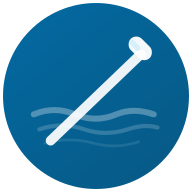
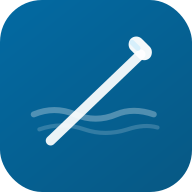
feat: PWA complet - manifest enrichi, SW v6 robuste, splash screens iOS, offline page, icônes toutes tailles

Changed region(s): [[0.0, 0.0, 1.0, 1.0], [0.3125, 0.7188, 0.4688, 0.75]]

diff --git a/public/sw.js b/public/sw.js
@@ -1,54 +1,107 @@
-// Version à incrémenter à chaque déploiement pour forcer le remplacement
-const SW_VERSION = 'v5';
-const CACHE = `aviron-coach-${SW_VERSION}`;
+const SW_VERSION = 'v6';
+const CACHE_STATIC = `aviron-static-${SW_VERSION}`;
+const CACHE_DYNAMIC = `aviron-dynamic-${SW_VERSION}`;
 
-// À l'installation : mettre en cache uniquement les fichiers statiques stables
+const STATIC_ASSETS = [
+  '/',
+  '/index.html',
+  '/manifest.json',
+  '/icon-192.png',
+  '/icon-512.png',
+  '/icon-180.png',
+  '/offline.html',
+];
+
+// ── Installation ──
 self.addEventListener('install', e => {
   e.waitUntil(
-    caches.open(CACHE)
-      .then(c => c.addAll(['/index.html', '/manifest.json', '/icon-192.png', '/icon-512.png']))
-      .then(() => self.skipWaiting()) // Prendre le contrôle immédiatement
+    caches.open(CACHE_STATIC)
+      .then(c => c.addAll(STATIC_ASSETS))
+      .then(() => self.skipWaiting())
   );
 });
 
-// À l'activation : supprimer TOUS les anciens caches sans exception
+// ── Activation : vider les anciens caches ──
 self.addEventListener('activate', e => {
   e.waitUntil(
     caches.keys()
       .then(keys => Promise.all(
-        keys.filter(k => k !== CACHE).map(k => {
-          console.log('[SW] Suppression ancien cache:', k);
-          return caches.delete(k);
-        })
+        keys
+          .filter(k => k !== CACHE_STATIC && k !== CACHE_DYNAMIC)
+          .map(k => caches.delete(k))
       ))
-      .then(() => self.clients.claim()) // Prendre le contrôle des onglets ouverts
+      .then(() => self.clients.claim())
   );
 });
 
+// ── Fetch : stratégie hybride ──
 self.addEventListener('fetch', e => {
-  const url = new URL(e.request.url);
+  const { request } = e;
+  const url = new URL(request.url);
 
-  // Supabase : toujours réseau direct, jamais de cache
-  if (url.hostname.includes('supabase.co')) return;
-
-  // Assets Vite (/assets/*.js, /assets/*.css) : réseau direct, jamais de cache
-  // Ces fichiers ont des hashes dans leur nom, pas besoin de les cacher
-  if (url.pathname.startsWith('/assets/')) {
-    e.respondWith(fetch(e.request));
+  // 1. Supabase → toujours réseau direct (jamais de cache)
+  if (url.hostname.includes('supabase.co') || url.hostname.includes('vercel.app') && url.pathname.startsWith('/api/')) {
     return;
   }
 
-  // Fichiers statiques stables (icônes, manifest, HTML) : cache-first
+  // 2. Assets Vite (hash dans le nom) → réseau direct, puis cache
+  if (url.pathname.startsWith('/assets/')) {
+    e.respondWith(
+      caches.open(CACHE_DYNAMIC).then(cache =>
+        cache.match(request).then(cached => {
+          if (cached) return cached;
+          return fetch(request).then(res => {
+            if (res.ok) cache.put(request, res.clone());
+            return res;
+          });
+        })
+      )
+    );
+    return;
+  }
+
+  // 3. Navigation (HTML) → network-first, fallback offline
+  if (request.mode === 'navigate') {
+    e.respondWith(
+      fetch(request)
+        .catch(() => caches.match('/offline.html') || caches.match('/index.html'))
+    );
+    return;
+  }
+
+  // 4. Reste → cache-first
   e.respondWith(
-    caches.match(e.request).then(cached => {
+    caches.match(request).then(cached => {
       if (cached) return cached;
-      return fetch(e.request).then(res => {
-        if (res.ok && res.status === 200) {
+      return fetch(request).then(res => {
+        if (res.ok) {
           const clone = res.clone();
-          caches.open(CACHE).then(c => c.put(e.request, clone));
+          caches.open(CACHE_DYNAMIC).then(c => c.put(request, clone));
         }
         return res;
       }).catch(() => cached || new Response('Offline', { status: 503 }));
     })
   );
+});
+
+// ── Push notifications (pour plus tard) ──
+self.addEventListener('push', e => {
+  if (!e.data) return;
+  const data = e.data.json();
+  e.waitUntil(
+    self.registration.showNotification(data.title || 'AvironCoach', {
+      body: data.body || '',
+      icon: '/icon-192.png',
+      badge: '/icon-72.png',
+      tag: data.tag || 'aviron-notif',
+      data: data.url ? { url: data.url } : {},
+    })
+  );
+});
+
+self.addEventListener('notificationclick', e => {
+  e.notification.close();
+  if (e.notification.data?.url) {
+    e.waitUntil(clients.openWindow(e.notification.data.url));
+  }
 });

diff --git a/index.html b/index.html
@@ -5,17 +5,45 @@
     <meta name="viewport" content="width=device-width, initial-scale=1.0, viewport-fit=cover" />
     <title>AvironCoach</title>
 
-    <!-- PWA -->
+    <!-- PWA Manifest -->
     <link rel="manifest" href="/manifest.json" />
-    <meta name="theme-color" content="#0f1923" />
+
+    <!-- Theme -->
+    <meta name="theme-color" content="#0369a1" />
+    <meta name="background-color" content="#0f172a" />
+
+    <!-- Android -->
     <meta name="mobile-web-app-capable" content="yes" />
+
+    <!-- iOS -->
     <meta name="apple-mobile-web-app-capable" content="yes" />
     <meta name="apple-mobile-web-app-status-bar-style" content="black-translucent" />
     <meta name="apple-mobile-web-app-title" content="AvironCoach" />
-    <link rel="apple-touch-icon" href="/icon-192.png" />
+
+    <!-- Apple icons -->
+    <link rel="apple-touch-icon" href="/icon-180.png" />
+    <link rel="apple-touch-icon" sizes="152x152" href="/icon-152.png" />
+    <link rel="apple-touch-icon" sizes="180x180" href="/icon-180.png" />
+    <link rel="apple-touch-icon" sizes="167x167" href="/icon-180.png" />
+
+    <!-- Apple splash screens -->
+    <link rel="apple-touch-startup-image" href="/splash-iphone-12.png"
+          media="(device-width: 390px) and (device-height: 844px) and (-webkit-device-pixel-ratio: 3)" />
+    <link rel="apple-touch-startup-image" href="/splash-iphone-x.png"
+          media="(device-width: 375px) and (device-height: 812px) and (-webkit-device-pixel-ratio: 3)" />
+    <link rel="apple-touch-startup-image" href="/splash-iphone-8.png"
+          media="(device-width: 375px) and (device-height: 667px) and (-webkit-device-pixel-ratio: 2)" />
 
     <!-- Favicon -->
-    <link rel="icon" type="image/png" href="/icon-192.png" />
+    <link rel="icon" type="image/png" sizes="32x32" href="/favicon-32.png" />
+    <link rel="icon" type="image/png" sizes="16x16" href="/favicon-16.png" />
+
+    <!-- SEO / Meta -->
+    <meta name="description" content="Application de coaching aviron — plannings, performances, équipages" />
+    <meta name="application-name" content="AvironCoach" />
+
+    <!-- Couleur barre de statut iOS -->
+    <meta name="apple-mobile-web-app-status-bar-style" content="black-translucent" />
   </head>
   <body>
     <div id="root"></div>
@@ -23,9 +51,20 @@
     <script>
       if ('serviceWorker' in navigator) {
         window.addEventListener('load', () => {
-          navigator.serviceWorker.register('/sw.js')
-            .then(r => console.log('SW registered', r.scope))
-            .catch(e => console.error('SW error', e));
+          navigator.serviceWorker.register('/sw.js', { scope: '/' })
+            .then(r => {
+              console.log('[PWA] Service Worker enregistré', r.scope);
+              // Vérifier les mises à jour
+              r.addEventListener('updatefound', () => {
+                const newWorker = r.installing;
+                newWorker.addEventListener('statechange', () => {
+                  if (newWorker.state === 'installed' && navigator.serviceWorker.controller) {
+                    console.log('[PWA] Nouvelle version disponible');
+                  }
+                });
+              });
+            })
+            .catch(e => console.error('[PWA] Erreur SW:', e));
         });
       }
     </script>

diff --git a/public/offline.html b/public/offline.html
@@ -1,0 +1,39 @@
+<!DOCTYPE html>
+<html lang="fr">
+<head>
+<meta charset="UTF-8">
+<meta name="viewport" content="width=device-width, initial-scale=1.0">
+<title>AvironCoach — Hors ligne</title>
+<style>
+  * { box-sizing: border-box; margin: 0; padding: 0; }
+  body {
+    font-family: -apple-system, sans-serif;
+    background: #0f172a;
+    color: #f1f5f9;
+    display: flex;
+    flex-direction: column;
+    align-items: center;
+    justify-content: center;
+    min-height: 100vh;
+    text-align: center;
+    padding: 24px;
+  }
+  img { width: 80px; height: 80px; border-radius: 20px; margin-bottom: 24px; }
+  h1 { font-size: 22px; font-weight: 800; margin-bottom: 8px; }
+  p { color: #64748b; font-size: 15px; margin-bottom: 32px; line-height: 1.5; }
+  button {
+    background: #0369a1; color: white; border: none;
+    border-radius: 12px; padding: 14px 28px;
+    font-size: 16px; font-weight: 700; cursor: pointer;
+  }
+  .wave { font-size: 48px; margin-bottom: 16px; }
+</style>
+</head>
+<body>
+  <div class="wave">🚣</div>
+  <img src="/icon-192.png" alt="AvironCoach">
+  <h1>Pas de connexion</h1>
+  <p>Tu es hors ligne.<br>Reconnecte-toi pour accéder à ton planning et tes performances.</p>
+  <button onclick="location.reload()">🔄 Réessayer</button>
+</body>
+</html>
